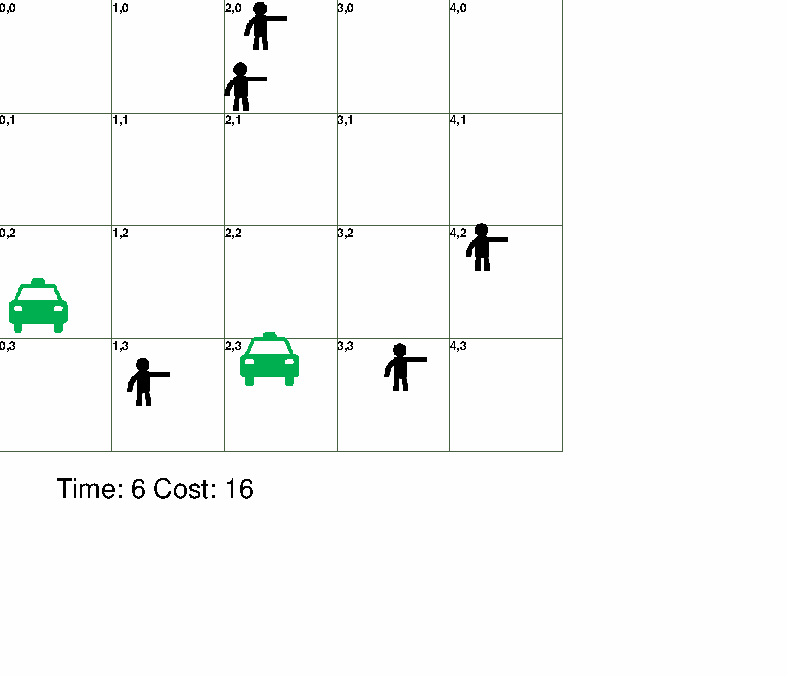
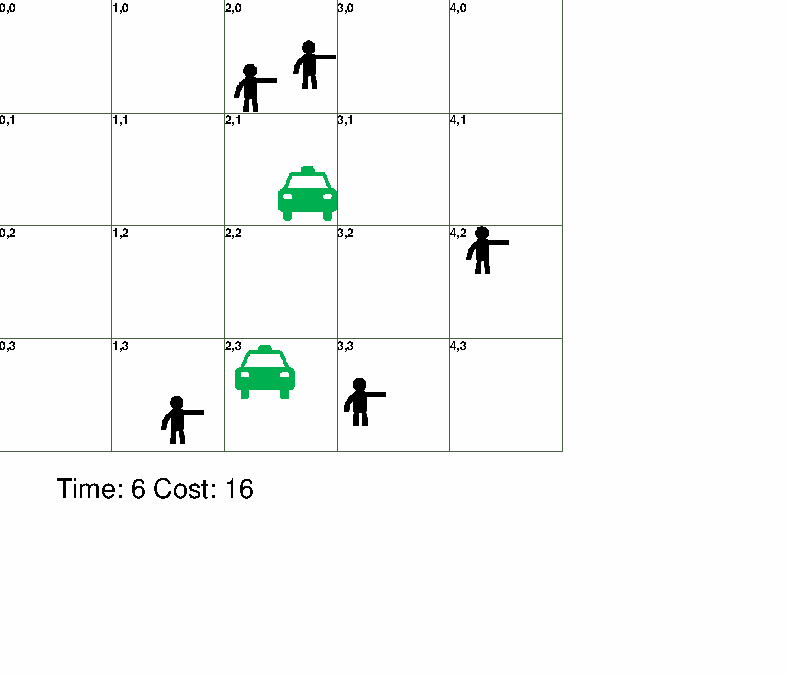
almost finished 4b

diff --git a/PSET4/hw4_skeleton/src/base_policy.py b/PSET4/hw4_skeleton/src/base_policy.py
@@ -1,3 +1,6 @@
+from flask import request
+import numpy as np
+
 class base_policy:
     def get_control(self, taxi_state_object):
         #print('get_control() base policy')
@@ -34,10 +37,25 @@ class base_policy:
         # Else if the taxi is available, return the direction of motion using the taxi ell's location and the nearest request's pickup location
         ################################# Begin your code ###############################
 
+        # ell is the index of the agent to be used in the list: agent_locations
         ell_location = taxi_state_object.agent_locations[ell]
-        
-        print("base policy: " + str(ell) )
-        # .outstanding_requests
+
+        manhattan_distance_lst = np.array([])
+
+        for count, req in enumerate(taxi_state_object.outstanding_requests):
+            pickup_location = [req[0], req[1]]
+            if ell_location == pickup_location: 
+                control_component = count + 5
+                return control_component
+            else:
+                dist = taxi_state_object.g.manhattan_distance(ell_location, pickup_location)
+                np.append(manhattan_distance_lst, dist)
+
+        if np.any(manhattan_distance_lst):
+            min = np.argmin(manhattan_distance_lst)
+            nearest_req = taxi_state_object.outstanding_requests[min]
+
+            control_component = self.next_direction(ell_location, [nearest_req[0], nearest_req[1]])
 
         ################################# End your code ###############################
         if control_component is None:
